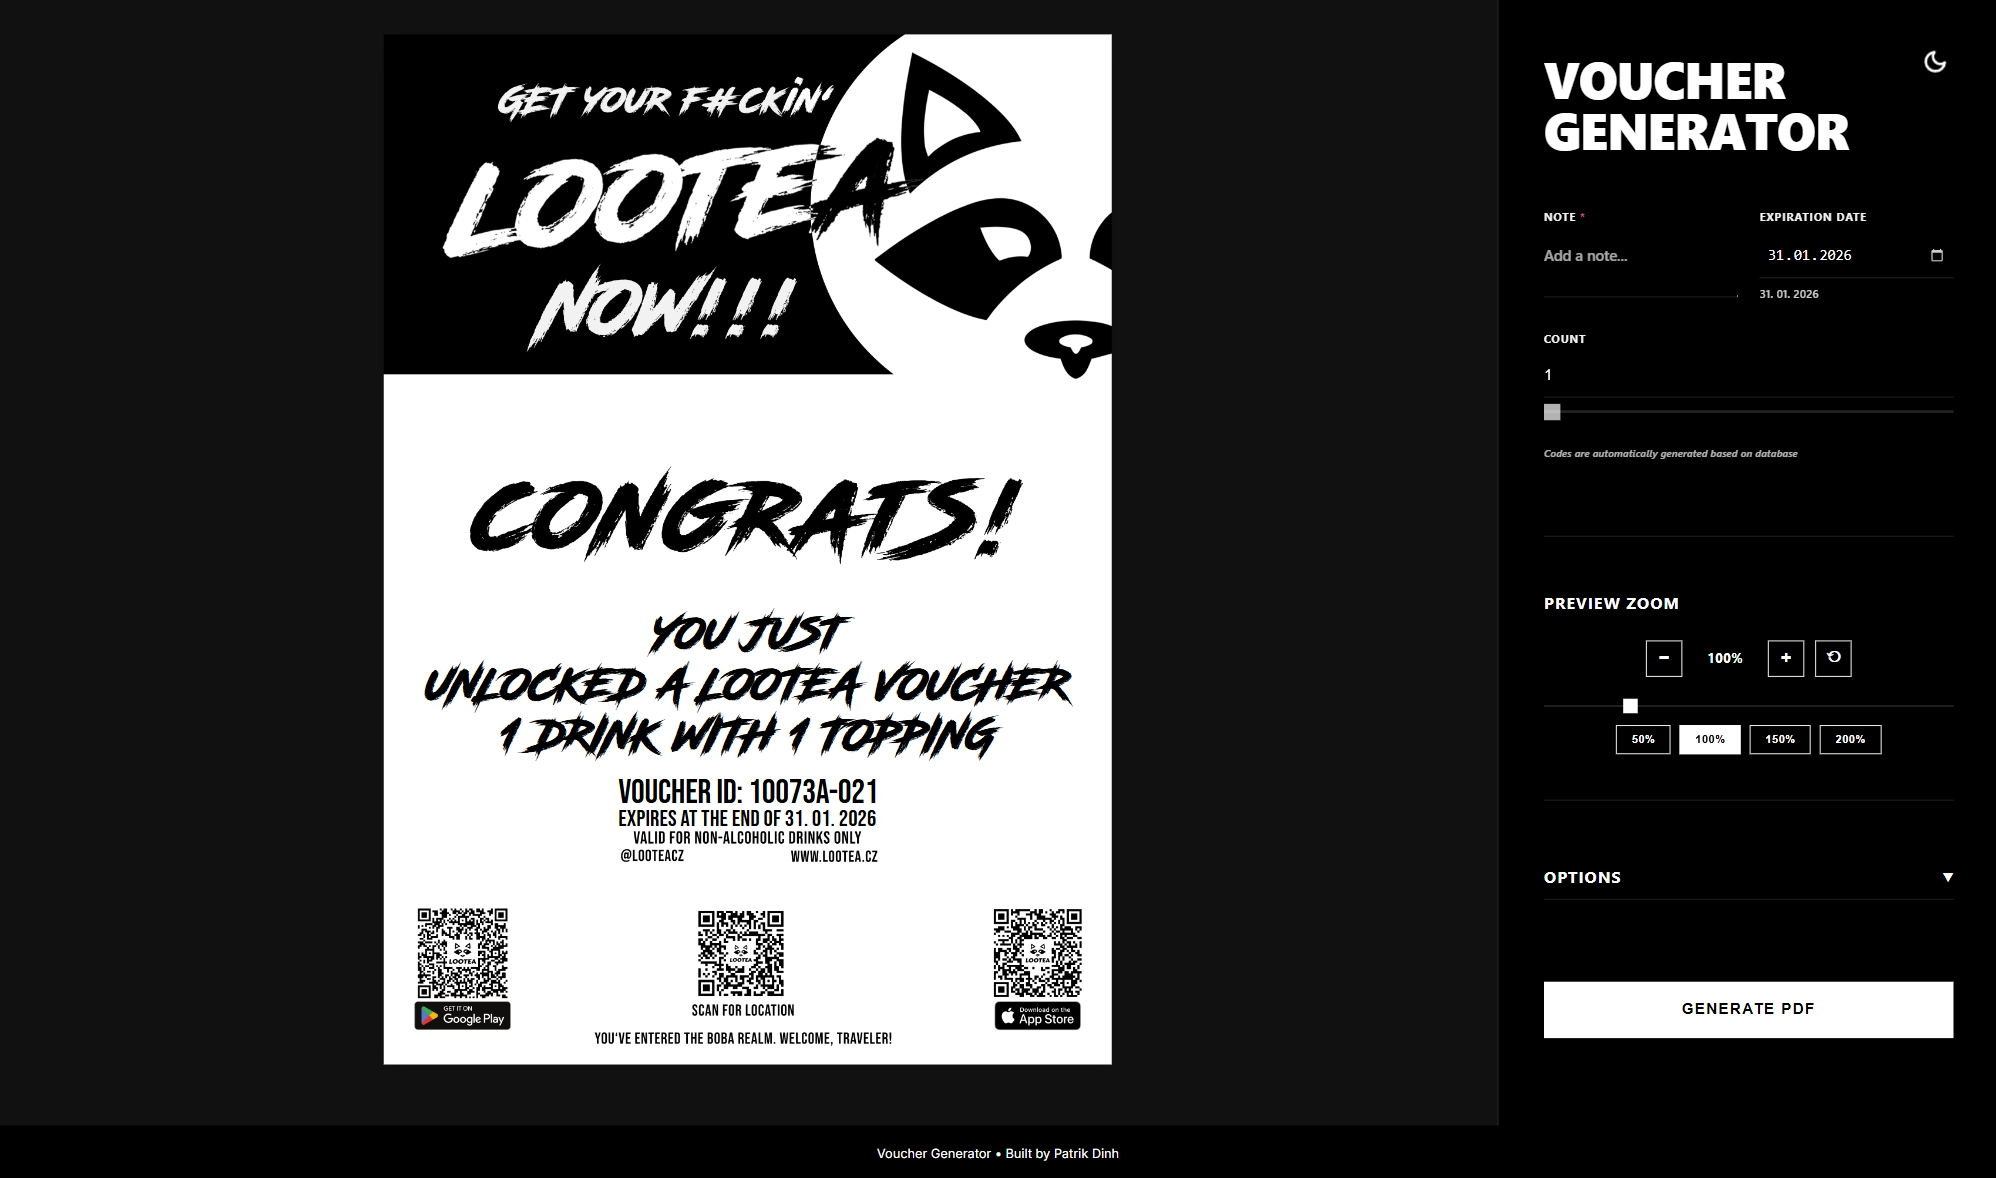
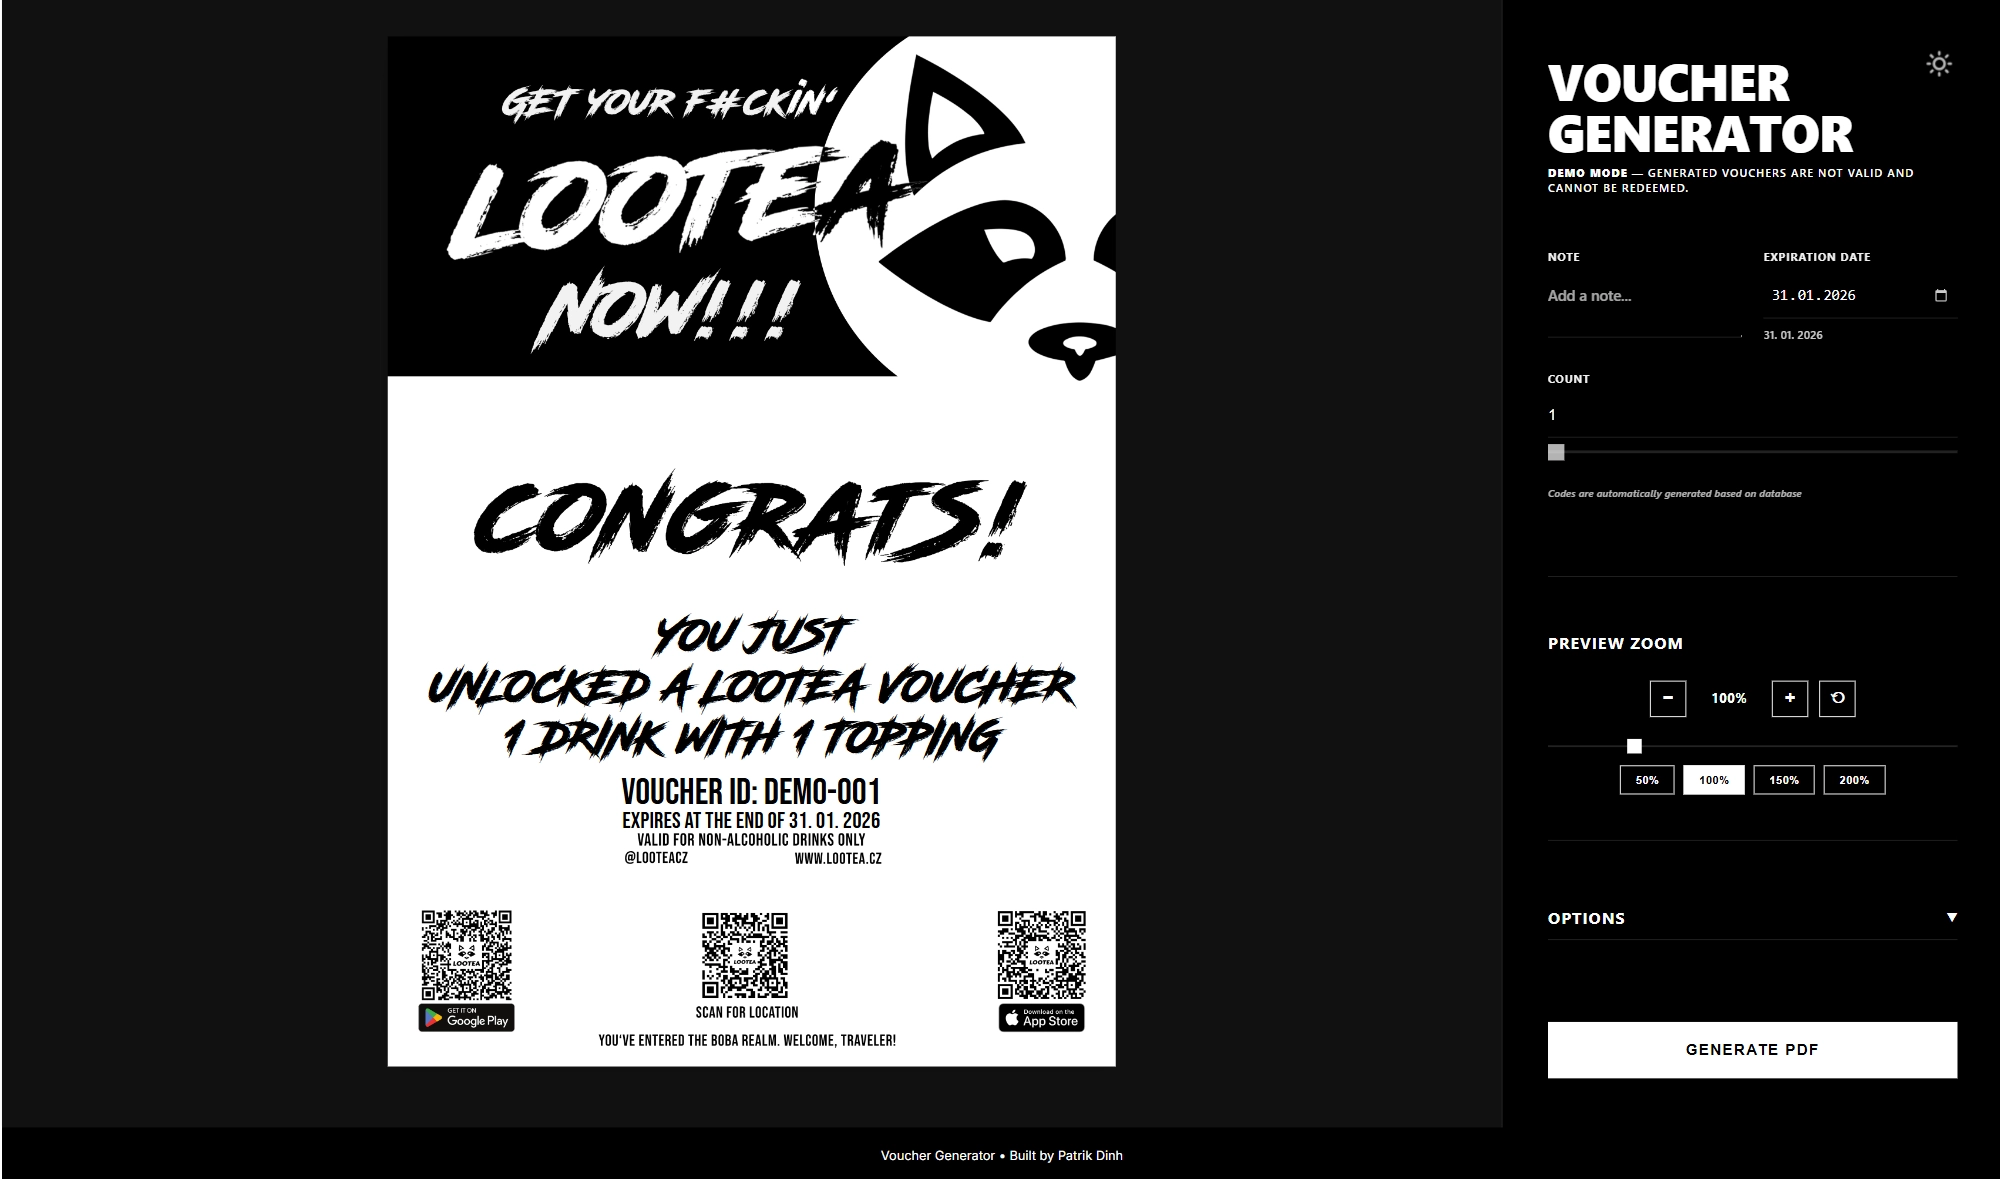
++ voucher generator

diff --git a/app/lib/projects.ts b/app/lib/projects.ts
@@ -102,11 +102,11 @@ export const projects: Project[] = [
   },
   {
     id: "voucher-generator",
-    title: "VOUCHER BUILDER",
+    title: "VOUCHER GENERATOR",
     subtitle:
       "Automated PDF voucher generation with live preview, batch creation, and Supabase-backed sequencing.",
     description:
-      "A precision utility for marketing operations. Generates print-ready voucher PDFs with pixel-perfect coordinate mapping, automatic sequential ID logic, and robust DEMO/PROD mode control. Designed to replace error-prone manual workflows and ensure database integrity for high-volume campaigns.", // Nová formulace
+      "A precision utility for marketing operations. Generates print-ready voucher PDFs with pixel-perfect coordinate mapping, automatic sequential ID logic, and robust DEMO/PROD mode control. Designed to replace error-prone manual workflows and ensure database integrity for high-volume campaigns.",
     
     keyPoints: [
       "Generates <strong>print-ready PDF vouchers</strong> using a high-resolution template (A4, 300 DPI).",
@@ -122,18 +122,18 @@ export const projects: Project[] = [
     thumbnail: "/thumbnails/voucher-generator.webp",
     
     caseStudy: {
-      title: "Voucher Generator: Architectural & Technical Overview",
+      title: "Voucher Generator: Precision Utility & Technical Overview",
       sections: [
         {
           heading: "Context: Automation of Print-Ready Assets",
           content:
-            "Marketing operations required a robust solution for large-batch, unique customer voucher generation. Manual layout and data entry (expiration dates, sequential numbering) were error-prone and severely limited throughput. The Voucher Builder automates the entire print pipeline: incorporating live precision positioning, secure Supabase-backed sequencing, and multi-page batch processing."
+            "Marketing operations required a robust solution for large-batch, unique customer voucher generation. Manual layout and data entry (expiration dates, sequential numbering) were error-prone and severely limited throughput. The Voucher Generator automates the entire print pipeline: incorporating live precision positioning, secure Supabase-backed sequencing, and multi-page batch processing." // Změněno na Generator
         },
         
         {
           heading: "High-level System Architecture",
           content:
-            "The system is a **Next.js application** built on a **TypeScript** foundation. The backend utilizes **PDFKit** for a strongly typed rendering pipeline. The client handles **Zero Scroll** preview, positioning, and batch parameters. In **PROD** mode, the server securely writes each voucher record and metadata to Supabase. In **DEMO** mode, it applies a large watermark and skips all database transactions."
+            "The system is a <strong>Next.js application</strong> built on a <strong>TypeScript</strong> foundation. The backend utilizes <strong>PDFKit</strong> for a strongly typed rendering pipeline. The client handles <strong>Zero Scroll</strong> preview, positioning, and batch parameters. In <strong>PROD</strong> mode, the server securely writes each voucher record and metadata to Supabase. In <strong>DEMO</strong> mode, it applies a large watermark and skips all database transactions."
         },
         
         {
@@ -142,9 +142,9 @@ export const projects: Project[] = [
             "Each page is rendered using a fixed A4 high-resolution PNG template layered with dynamic text fields. A consistent coordinate mapping ensures pixel-perfect placement for physical print. The pipeline handles:",
           bullets: [
             "Embedding brand fonts (Bebas Neue + Road Rage) for style compliance.",
-            "Drawing unique **sequential Voucher IDs** derived from the database.",
+            "Drawing unique <strong>sequential Voucher IDs</strong> derived from the database.",
             "Rendering expiration date, dynamic text, and metadata using coordinate mapping.",
-            "Mandatory **DEMO watermark** applied as a rotated, low-opacity layer.",
+            "Mandatory <strong>DEMO watermark</strong> applied as a rotated, low-opacity layer.",
             "Appending each voucher as a separate page within a single output PDF file."
           ]
         },
@@ -156,7 +156,7 @@ export const projects: Project[] = [
           bullets: [
             "Real-time X/Y coordinate adjustments for all dynamic fields.",
             "Batch preview thumbnails for sequential validation (#1, #2, #3 …).",
-            "Zoom functionality (50–200%) for critical fine-tuning.",
+            "Zoom functionality (50-200%) for critical fine-tuning.",
             "Light/dark theme switching that is independent of the print output."
           ]
         },
@@ -166,8 +166,8 @@ export const projects: Project[] = [
           content:
             "The application supports a secure two-tier environment controlled by environment variables:",
           bullets: [
-            "**DEMO Mode**: Uses a sandbox prefix ('DEMO-'), forces sequence start at 1, and applies a mandatory **'NOT VALID' watermark**. All Supabase writes are disabled.",
-            "**PROD Mode**: Uses the official campaign prefix ('10073A-'), pulls the latest sequence number from Supabase, and ensures secure storage of each voucher record without a watermark."
+            "<strong>DEMO Mode</strong>: Uses a sandbox prefix ('DEMO-'), forces sequence start at 1, and applies a mandatory <strong>'NOT VALID' watermark</strong>. All Supabase writes are disabled.",
+            "<strong>PROD Mode</strong>: Uses the official campaign prefix ('10073A-'), pulls the latest sequence number from Supabase, and ensures secure storage of each voucher record without a watermark."
           ]
         },
         
@@ -176,18 +176,18 @@ export const projects: Project[] = [
           content:
             "Database integration is performed exclusively in PROD mode using a service role key to maintain security. Each generated voucher configuration is stored in Supabase (PostgreSQL) with key metadata for lifecycle tracking:",
           bullets: [
-            "**voucher_id** (globally unique code generated by sequence engine)",
-            "**sequence number** (for next batch calculation)",
-            "**expires_at** (string)",
-            "**note** (campaign name/batch reference)",
-            "**status** + **timestamps** (redeemed_at, created_at)"
+            "<strong>voucher_id</strong> (globally unique code generated by sequence engine)",
+            "<strong>sequence number</strong> (for next batch calculation)",
+            "<strong>expires_at</strong> (string)",
+            "<strong>note</strong> (campaign name/batch reference)",
+            "<strong>status</strong> + <strong>timestamps</strong> (redeemed_at, created_at)"
           ]
         },
         
         {
           heading: "Reliability & Performance",
           content:
-            "The system is optimized for high-volume execution on Vercel's serverless platform. It reliably handles batches of **up to 200 pages** within the serverless execution limit. Optimisations include streaming PDF output to prevent memory issues, loading a single shared template bitmap, and asynchronous batch writing to Supabase. Robust validation logic prevents invalid inputs, ensuring clean data and reliable output."
+            "The system is optimized for high-volume execution on Vercel's serverless platform. It reliably handles batches of <strong>up to 200 pages</strong> within the serverless execution limit. Optimisations include streaming PDF output to prevent memory issues, loading a single shared template bitmap, and asynchronous batch writing to Supabase. Robust validation logic prevents invalid inputs, ensuring clean data and reliable output."
         },
         
         {
@@ -208,7 +208,7 @@ export const projects: Project[] = [
     liveUrl: "https://invoice.ai.extractor.patrikdinh.com/",
     thumbnail: "/thumbnails/invoice-ai-extractor.webp",
     caseStudy: {
-      title: "Invoice AI Extractor – Technical Overview",
+      title: "Invoice AI Extractor - Technical Overview",
       sections: [
         {
           heading: "Context & Challenge",
